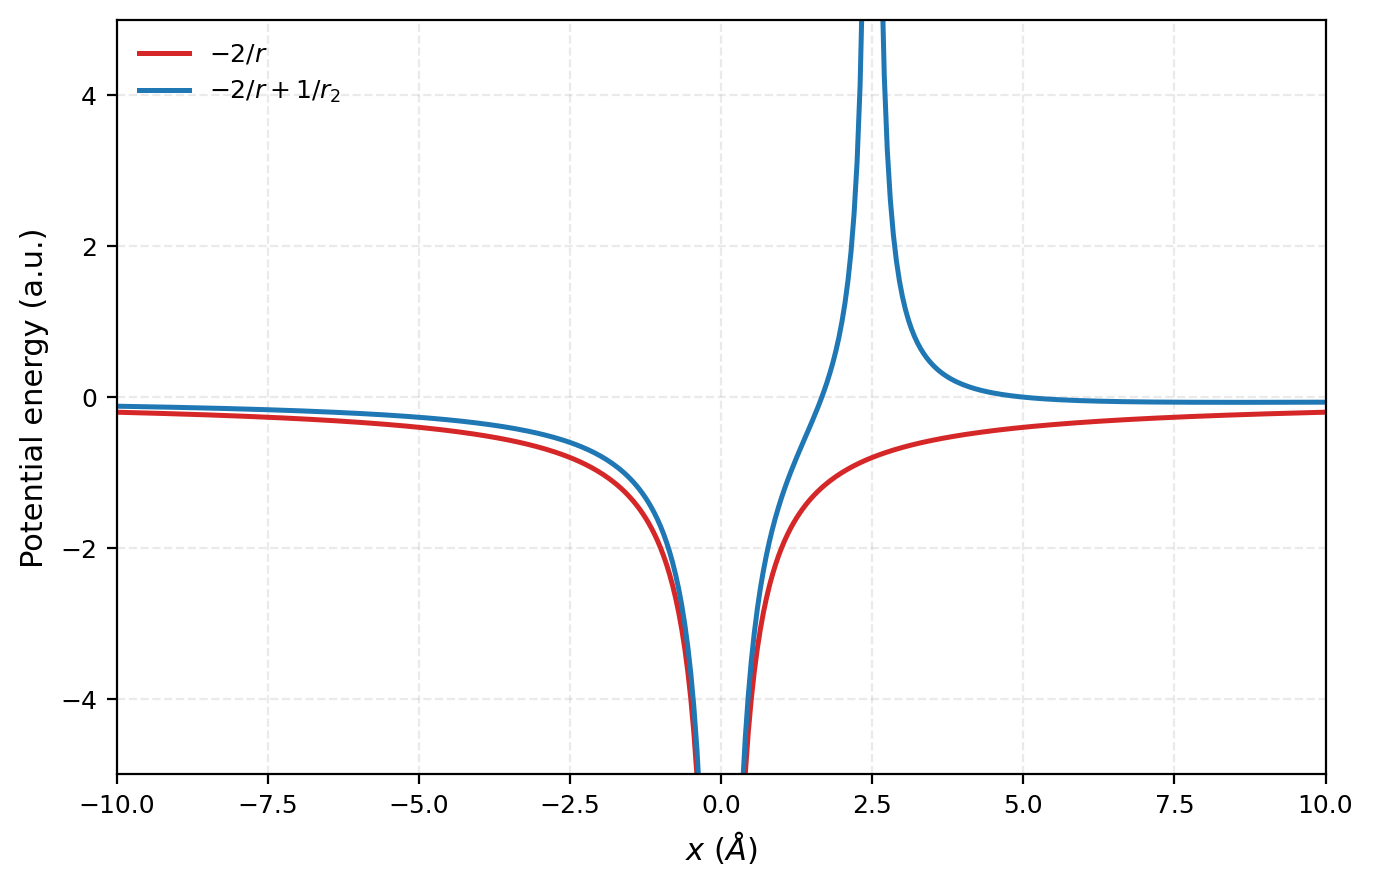
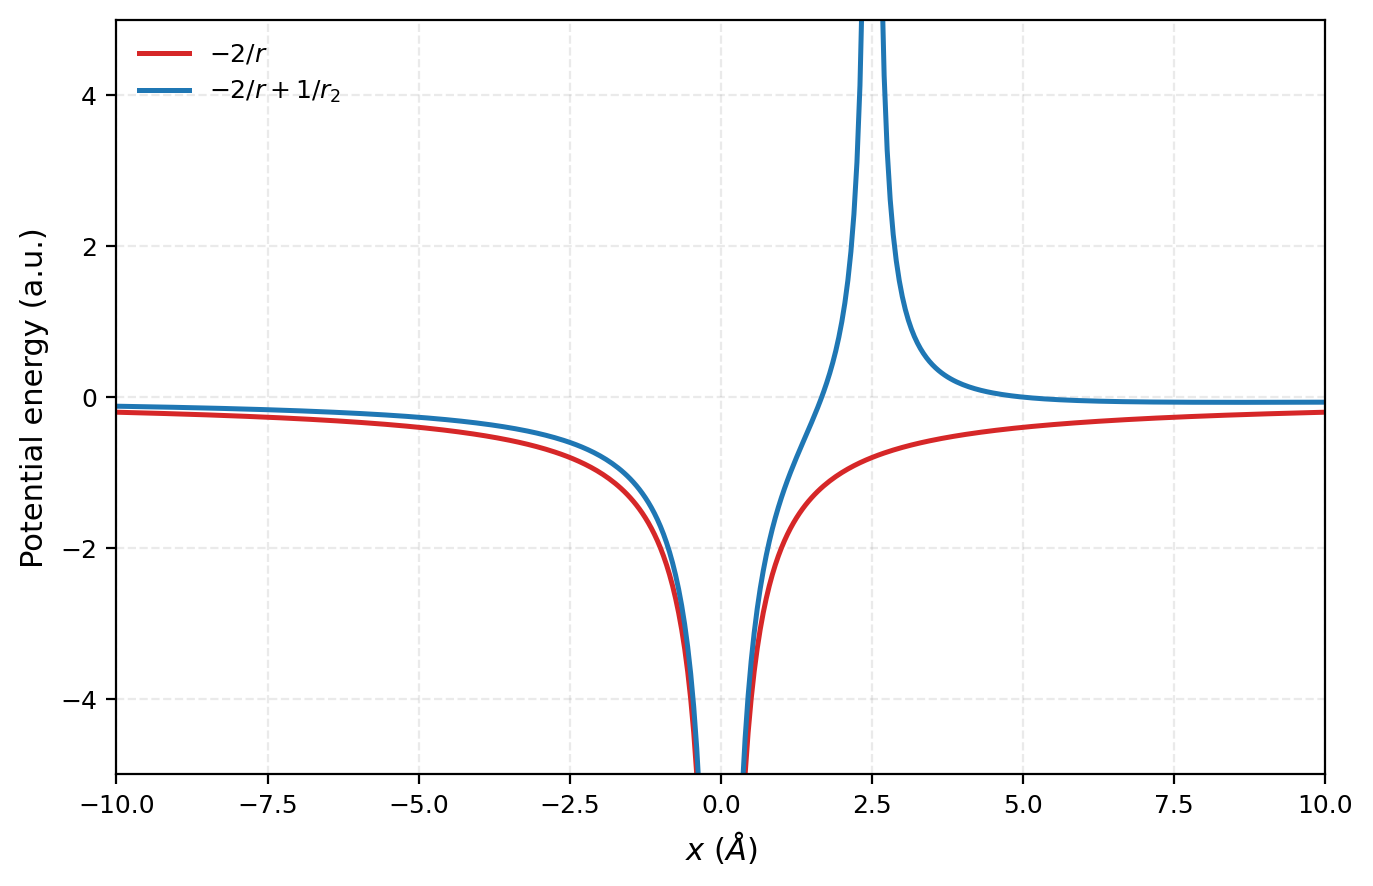
Closes #3

diff --git a/src/helium/plotting.py b/src/helium/plotting.py
@@ -8,6 +8,7 @@ from __future__ import annotations
 import matplotlib as mpl
 import matplotlib.pyplot as plt
 import numpy as np
+from mpl_toolkits.axes_grid1 import make_axes_locatable
 
 
 def apply_plot_style() -> None:
@@ -83,8 +84,8 @@ def plot_2d_potential(
     xlim: tuple[float, float] = (-10.0, 10.0),
     ylim: tuple[float, float] = (-10.0, 10.0),
 ) -> None:
-    """Generate and save a 2D potential colormap plot."""
-    fig, ax = plt.subplots()
+    """Generate and save a 2D potential colormap plot with equal aspect ratio."""
+    fig, ax = plt.subplots(figsize=(9.5, 4.9))
     pcm = ax.pcolormesh(
         X,
         Y,
@@ -94,7 +95,14 @@ def plot_2d_potential(
         vmax=vmax,
         shading='auto',
     )
-    cbar = fig.colorbar(pcm, ax=ax, fraction=0.046, pad=0.04)
+    
+    # Enforce equal aspect ratio (1:1 scaling for x and y axes)
+    ax.set_aspect('equal', adjustable='box')
+    
+    # Use make_axes_locatable for better colorbar placement
+    divider = make_axes_locatable(ax)
+    cax = divider.append_axes('right', size='3.5%', pad=0.05)
+    cbar = fig.colorbar(pcm, cax=cax)
     cbar.set_label('Potential energy (a.u.)', fontsize=10, color='0.3')
     cbar.ax.tick_params(colors='0.3', labelsize=9)
     cbar.outline.set_edgecolor('0.6')
